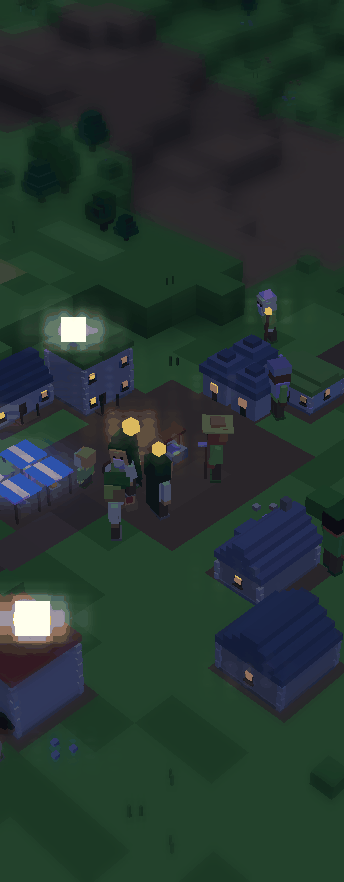
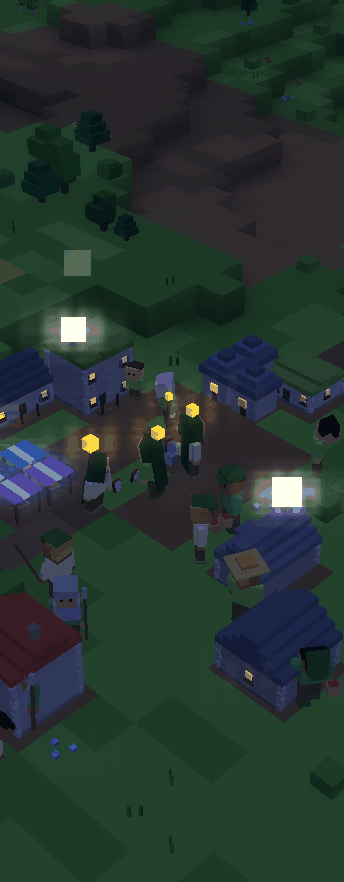
Looks: depth of field only when the camera comes close
The owner: "Depth of field effect should only kick in as you zoom a lot, we
shouldn't have it on a full island view." No blur over the whole island or at
a mid zoom (no passes drawn there); the depth-based blur begins 40 cells from
what the camera looks at and is full at 10 (the closest sky zoom is 8), focused
under the screen centre; still off in the eye view. focusBlur() and five checks
for it in scripts/looks-test.ts. CPU alone at 700x830: +0.4 ms at the closest
zoom, nothing over the whole island. Frames: whole island, mid zoom and closest
zoom on a village, off and high, at 390x844 and 344x882 (855 KB in all).

Claude-Session: https://claude.ai/code/session_01NxvtAnVeeSftkua711EPa8

diff --git a/src/sim/voxel/looks.ts b/src/sim/voxel/looks.ts
@@ -111,6 +111,19 @@ export interface LooksFrame {
   dist: number;
 }
 
+// The depth of field begins when the camera is this close to what it looks at (cells), and is
+// whole at FOCUS_FULL (the sky view's closest is 8).
+export const FOCUS_FROM = 40;
+export const FOCUS_FULL = 10;
+
+// How much of the blurred frame the depth of field may show, 0 to 1, for a sky camera this far
+// from what it looks at; 0 in the eye view.
+export function focusBlur(dist: number, eye: boolean): number {
+  if (eye) return 0;
+  const close = Math.min(1, Math.max(0, (FOCUS_FROM - dist) / (FOCUS_FROM - FOCUS_FULL)));
+  return close * close * (3 - 2 * close);
+}
+
 // The tint of the land in shade and in the sun.
 const SHADE = new Vector3(0.58, 0.64, 0.86);
 const LIT = new Vector3(1.03, 0.99, 0.92);
@@ -252,14 +265,14 @@ float sunLight(vec3 n) {
 
     // Glow at night, and in a spell's darkness.
     this.bloomAmount = GRAPHICS.bloom ? Math.min(1, Math.max(Math.max(0, f.night - 0.2) / 0.6, f.dark)) : 0;
-    // The miniature's depth of field: at every zoom of the sky view, in focus at the point under
-    // the middle of the screen, blurred in front of it and behind it; stronger, and with a
-    // shallower focus, the more of the island the camera holds. Never in the eye view.
-    const whole = Math.min(1, Math.max(0, (f.cover - 0.15) / 0.75));
-    this.tiltAmount = GRAPHICS.tilt && !f.eye ? 0.75 + 0.25 * whole : 0;
+    // The miniature's depth of field, only when the camera comes close (the owner: "it's really
+    // only when we zoom a lot"): none from FOCUS_FROM cells away and farther (a mid zoom, the
+    // whole island), growing to full at the closest the sky view goes. In focus at the point
+    // under the middle of the screen, blurred in front of it and behind it. Never in the eye view.
+    this.tiltAmount = GRAPHICS.tilt ? focusBlur(f.dist, f.eye) : 0;
     this.tiltCenter = 0.5;
     // How far in front or behind the focus stays sharp, as a share of the focus distance.
-    this.tiltSharp = 0.035 + 0.05 * (1 - whole);
+    this.tiltSharp = 0.06;
   }
 
   // Lays the shadow map over what the camera holds, from the sun's side. The

diff --git a/scripts/looks-test.ts b/scripts/looks-test.ts
@@ -16,7 +16,7 @@ import {
   setLooksChoice,
   type Quality,
 } from "../src/sim/voxel/graphics";
-import { gradeColor } from "../src/sim/voxel/looks";
+import { FOCUS_FULL, focusBlur, gradeColor } from "../src/sim/voxel/looks";
 
 type Check = (name: string, ok: boolean, detail?: string) => void;
 
@@ -108,6 +108,15 @@ export function looksChecks(check: Check): void {
     "the grade stays in range",
     [grey, black, white].every((c) => [c.r, c.g, c.b].every((v) => v >= 0 && v <= 1)),
   );
+
+  // The depth of field only when the camera comes close (the owner, 13 November): none over the
+  // whole island (a medium island is seen from about 83 cells) or at a mid zoom (55), whole at
+  // the closest sky zoom, never in the eye view.
+  check("no depth of field over the whole island", focusBlur(83, false) === 0);
+  check("no depth of field at a mid zoom", focusBlur(55, false) === 0);
+  check("the depth of field is whole at the closest sky zoom", focusBlur(FOCUS_FULL, false) === 1 && focusBlur(8, false) === 1);
+  check("the depth of field grows as the camera comes closer", focusBlur(30, false) > 0 && focusBlur(30, false) < focusBlur(15, false));
+  check("no depth of field in the eye view", focusBlur(8, true) === 0);
 
   for (const f of LOOKS_FLAGS) GRAPHICS[f] = was[f];
 }

diff --git a/src/sim/voxel/graphics.ts b/src/sim/voxel/graphics.ts
@@ -29,10 +29,10 @@ export const GRAPHICS = {
   // only; three passes at a quarter of the pixels, and the frame is drawn
   // into a texture first.
   bloom: false,
-  // The miniature's depth of field: in focus at the point under the middle of
-  // the screen, blurred in front of it and behind it, at every zoom of the sky
-  // view, shallower the more the camera holds the whole island. Off in the eye
-  // view. Two blur passes at half the pixels; the frame and its depth are
+  // The miniature's depth of field, only when the camera comes close: none
+  // at a mid zoom or over the whole island, growing to full at the closest
+  // sky zoom; in focus at the point under the middle of the screen, blurred
+  // in front of it and behind it. Off in the eye view. Two blur passes at half the pixels; the frame and its depth are
   // drawn into textures by the scene's own pass (no pass for the depth).
   tilt: false,
 };

diff --git a/docs/measurements/looks-render/README.md b/docs/measurements/looks-render/README.md
@@ -15,13 +15,14 @@ four switches in `src/sim/voxel/graphics.ts`, each measured alone, drawn in
   the far side of the island, tuned with the existing fog.
 - `bloom`: glow that spills around bright parts, at night and in a spell's
   darkness only. Three passes at a quarter width (a sixteenth of the pixels).
-- `tilt`: the miniature's depth of field (the owner, after the first frames:
-  "more than bloom it's more depth of field"). In focus at the point under the
-  middle of the screen, blurred more the farther in front of it or behind it,
-  at every zoom of the sky view, with a shallower focus the more the camera
-  holds the whole island; off in the eye view. The depth comes from a depth
-  texture the scene's own pass writes (no extra pass); the blur is two passes
-  at half width. Frames `village-mid-*` show it at a mid zoom on a village.
+- `tilt`: the miniature's depth of field (the owner: "more than bloom it's more
+  depth of field", then "it's really only when we zoom a lot"). Nothing over the
+  whole island or at a mid zoom: it begins 40 cells from what the camera looks
+  at and is full at 10 (the sky view's closest is 8). In focus at the point
+  under the middle of the screen, blurred more the farther in front of it or
+  behind it; off in the eye view. The depth comes from a depth texture the
+  scene's own pass writes (no extra pass); the blur is two passes at half
+  width, drawn only when the camera is close.
 
 A quality preset (low, medium, high) is chosen from the device's own frame
 times (`QualityChooser`), with each look assigned to a level: low is the game
@@ -31,13 +32,14 @@ look at a time in the frame HUD (long press the title, open the World).
 
 ## The frames
 
-Four island views, each with every look off (`-low`) and with the high preset
+Five island views, each with every look off (`-low`) and with the high preset
 (`-high`), at 390x844 (a phone) and 344x882 (the owner's Z Fold folded):
 
 - `village-day-*` a village by day
 - `village-night-*` the same village at night, lit windows and glowing items
 - `island-day-*` the whole island from above
-- `village-mid-*` the village at a mid zoom (the depth of field)
+- `village-mid-*` the village at a mid zoom (no blur)
+- `village-close-*` the village at the closest zoom (the depth of field)
 
 ## Cost (CPU side only; the phone must judge the GPU)
 
@@ -48,13 +50,13 @@ GPU cost of the extra passes and the shadow map is the owner's phone to tell.
 
 Measured alone at 700x830 (the Fold open), medium island, dpr 1:
 
-| look          | draw village | draw island | extra calls | passes after scene |
-| ------------- | ------------ | ----------- | ----------- | ------------------ |
-| off (low)     | 3.5 ms       | 3.9 ms      | 0           | 0                  |
-| shadows       | 4.4 ms       | 4.9 ms      | +45 (map)   | 0                  |
-| grade         | ~0 extra     | ~0 extra    | 0           | 0                  |
-| bloom (night) | +0.3 ms      | n/a (day)   | 0           | 3                  |
-| tilt (depth)  | +0.1 ms      | +0.1 ms     | 0           | 3 (depth: none)    |
+| look          | draw village           | draw island           | extra calls | passes after scene                                                     |
+| ------------- | ---------------------- | --------------------- | ----------- | ---------------------------------------------------------------------- |
+| off (low)     | 3.5 ms                 | 3.9 ms                | 0           | 0                                                                      |
+| shadows       | 4.4 ms                 | 4.9 ms                | +45 (map)   | 0                                                                      |
+| grade         | ~0 extra               | ~0 extra              | 0           | 0                                                                      |
+| bloom (night) | +0.3 ms                | n/a (day)             | 0           | 3                                                                      |
+| tilt (depth)  | +0.4 ms (closest zoom) | 0 (whole island: off) | 0           | 3 when close, 0 at mid zoom and over the whole island (depth: no pass) |
 
 Shadows cost one extra scene pass into the map (its draw calls scale with what
 casts). Grade is free on the CPU (a shader change, no pass). Bloom and tilt add
